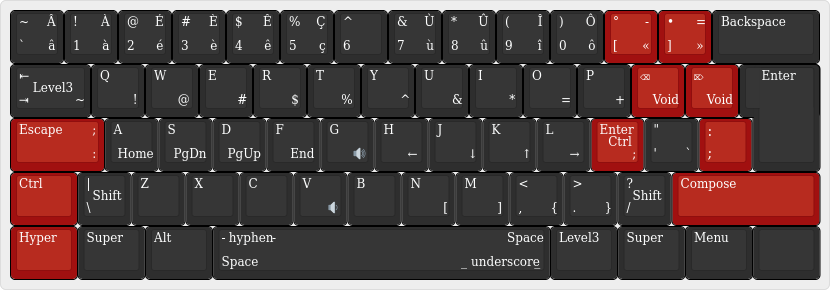
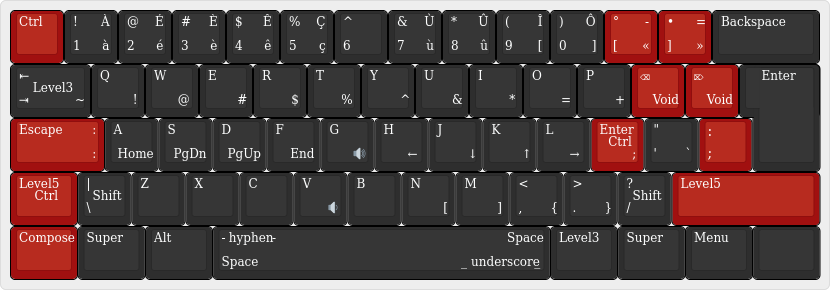
Partially updated the ''documentation'' with the newest changes to the keyboard layout

diff --git a/README.md b/README.md
@@ -9,7 +9,7 @@ The keyboard layout is based on QWERTY-US but brings special keys (enter, contro
 The character that gets produced on the computer not only depends on the physical key being pressed but also on the current active layer. The most familiar use of layers is that of non-shifted vs shifted. On a classic QWERTY keyboard, pressing the first key normally produces `q` but if you hold shift and press that same key, `Q` gets produced. This means that the classic QWERTY keyboard layout maps the first key to `q` when on the first layer/level and to `Q` when the second layer/level is active. As already mentioned, one way to access this second level is to hold shift but one can also use caps lock whose behaviour is different. The XKB protocol defines 3 ways to access a certain level:
 1. **Switch** : Level X is active as long as this switch is held. Familiar Examples: Shift, AltGr.
 2. **Lock** : Level X is activated when the lock key is pressed and remains active until the lock key is pressed again. Familiar Examples: Caps Lock, Num Lock.
-3. **Latch** : Pressing (and releasing) the latch key only applies Level X to the next pressed key before going back to default layer. Familiar Examples: Sadly none.
+3. **Latch** : Pressing (and releasing) the latch key only applies Level X to the next pressed key before going back to default layer. Familiar Examples: Shift key on smartphones.
 
 It's rather unfortunate to observe that latching is so uncommon since [key sequences are more ergonomic than key chords](http://xahlee.info/kbd/banish_key_chords.html) and you might be glad to hear that ProgramISO does make use of latch keys but only for one modifier key while all others are switches. Why? The answer lies in dual-role keys.
 
@@ -35,6 +35,7 @@ You see, one of the untapped potential of switch modifiers is that they don't do
 ## Design Philosophy & Mnemonics
 #### Number row
 If you use an ISO keyboard, that's probably because you live in Europe and if that's the case, chances are also high that you need to input accented characters. Using the compose key for each accented character gets annoying if your language uses accents a lot. I speak French so I added french accented characters on Level3 of the number row, in a fashion that is lightly inspired by classic French and Belgian keyboard layouts.
+PS: French accents have been moved to Level5 (and Level6 for uppercase accented letters). The accents on the number row are redundant and less comfortable to use.
 
 The two leftmost keys on the number row hold `â` and `à` because the normal letter `A` is also the leftmost on the home row (it is also the leftmost in AZERTY). The tilde key is somewhat hard to reach but still feasible so I've placed the uncommon `â` there while `à` is much more commonly used so it is placed on the easier to reach <kbd>1</kbd> key.
 
@@ -46,9 +47,9 @@ Key <kbd>6</kbd> is a pain to reach so I did not add any accented characters the
 
 Keys <kbd>7</kbd> and key <kbd>8</kbd> are both adjacent to the normal letter <kbd>U</kbd> so they're used to input accented u's. On AZERTY, key <kbd>7</kbd> is used to input `è` which is an e with a *grave* accent but since it made more sense to pack all accented e's together, that key is free to be used for accented u's. Since key <kbd>7</kbd> inputs *grave* accent in AZERTY, I deciced it would be a good fit for u with a *grave* accent in ProgramISO. 
 
-Key <kbd>9</kbd> is close to <kbd>I</kbd> so this is where you'll find `î`.
+Key <kbd>9</kbd> is also the key used to enter opening parenthesis. Consequently, the same key can be used to enter opening square brackets `[`.
 
-Key <kbd>0</kbd> is close to <kbd>O</kbd> *and* 0 looks like an 'O' so this is where you'll find `ô`.
+Key <kbd>0</kbd> is also the key used to enter closing parenthesis. Consequently, the same key can be used to enter closing square brackets `]`.
 
 The last two keys are useful if you'd rather get square brackets by a single key press. It also contains « *fancy* » quotes and the degree sign `°` at the exact same place as in AZERTY. I often make bullet points so it's nice to have a fancy bullet point for these purposes `•`.
 

diff --git a/ideas.md b/ideas.md
@@ -13,6 +13,7 @@
     * If numpad is centered on <kbd>K</kbd>, <kbd>AltGr</kbd> could be used as `0`. (The spacebar could also be used but that's a bad candidate because I might need to input spaces between triplets of digits)
     * Centering the numpad on <kbd>I</kbd> instead could also be interesting. Why? Familiarity. 7, 8, 9 do not move and neither do the comma and the dot which are often used in number entry. If numpad is centered on K, commas and dots will be harder to input.
     * Numbers are often used for indexing so it would be a good idea to add a colon at its classic QWERTY position on the numpad layer. For the same reasons, adding square brackets on e.g.<kbd>P</kbd> and<kbd>/</kbd> could also prove to be useful.
+    * Access numpad layer (possibly use Mode_switch since we're kinda running out of layers on the ProgramISO layout) with <kbd>LCTL</kbd> and use the rightmost home row key as Compose.
 * xcape can also be used to dual-role a level X switch and a level Y latch on the same key
 * I don't use PgUp and PgDn a lot and yet they occupy the home row. <kbd>S</kbd> and <kbd>D</kbd> could instead yield openers and closers (i.e. parens and brackets) on certain layers
 * Move accents away from Level 3 number row and add square brackets `[]` on level 3 of <kbd>9(</kbd> and <kbd>0)</kbd>
@@ -33,6 +34,8 @@
 * Create a navigation layer where <kbd>H</kbd><kbd>J</kbd><kbd>K</kbd><kbd>L</kbd> are normal cursor movements like in Vim but the keys above (<kbd>Y</kbd><kbd>U</kbd><kbd>I</kbd><kbd>O</kbd>) are Ctrl+Mvmnt and keys below (<kbd>N</kbd><kbd>M</kbd><kbd>\<</kbd><kbd>\></kbd>) are Shift+Mvmnt. Something similar can be made for the left hand in regards to `Home`, `PgDn`, `PgUp`, and `End`.
 * ~~Assign bigrams and trigrams to keys or key combos, possibly with the use of an Hyper key on <kbd>Ctl_L</kbd> (Stock QWERTY position) or as a dual-role on a number row key.~~ ~~Added to ProgramISO on the number row because the lower corners of the keyboards are harder to reach than the upper corners~~ Removed in favor of the next idea
     * Chording is hard. Alternatively I could set a very uncommon symbol at level1 of a key and use text expansion software such as Autokey to expand {weird symbol}{letter} and {letter}{weird symbol}
+* Mod tap the Level 2 of the spacebar.
+* There are way too many ways to enter `[]`. I should remove some.
 
 
 # Interesting resources
@@ -44,3 +47,4 @@
 * https://github.com/xkbcommon/libxkbcommon
 * https://github.com/DreymaR/BigBagKbdTrixXKB/ : This one is of particular interest since it also uses XKB for advanced layer configuration
 * [KMonad is a keyboard remapping utility written to provide functionality that aligns with that provided by the amazing QMK firmware.](https://github.com/david-janssen/kmonad)
+* [This reddit post](https://www.reddit.com/r/MechanicalKeyboards/comments/fwu1tc/this_is_my_southpaw_corsair_seaform_a_k70_mk1/) contains a gif of pinky-barré.
